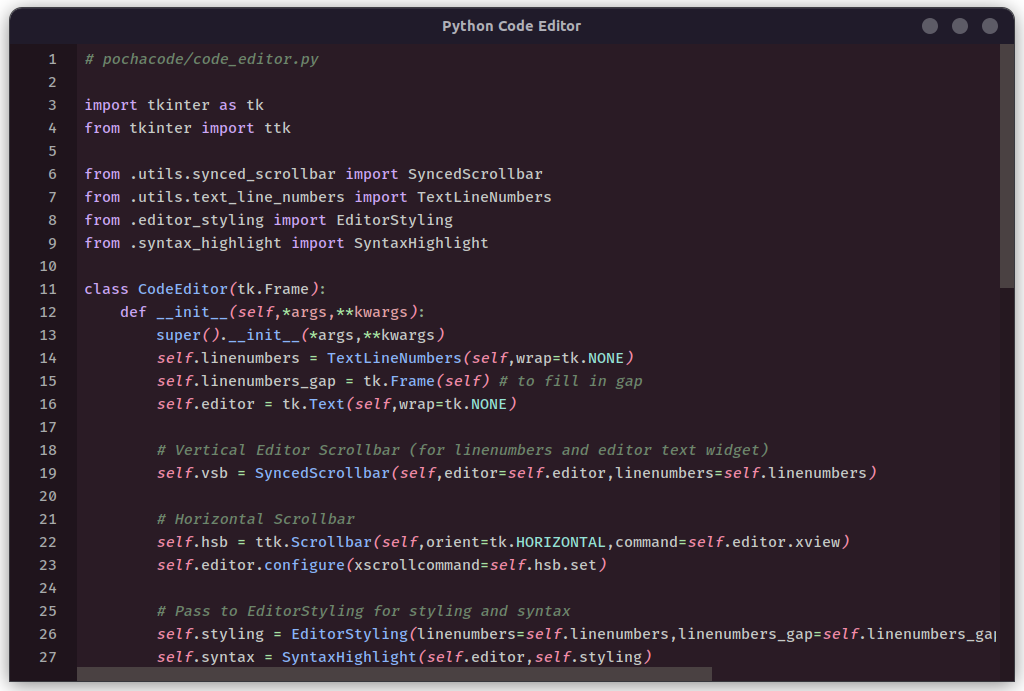
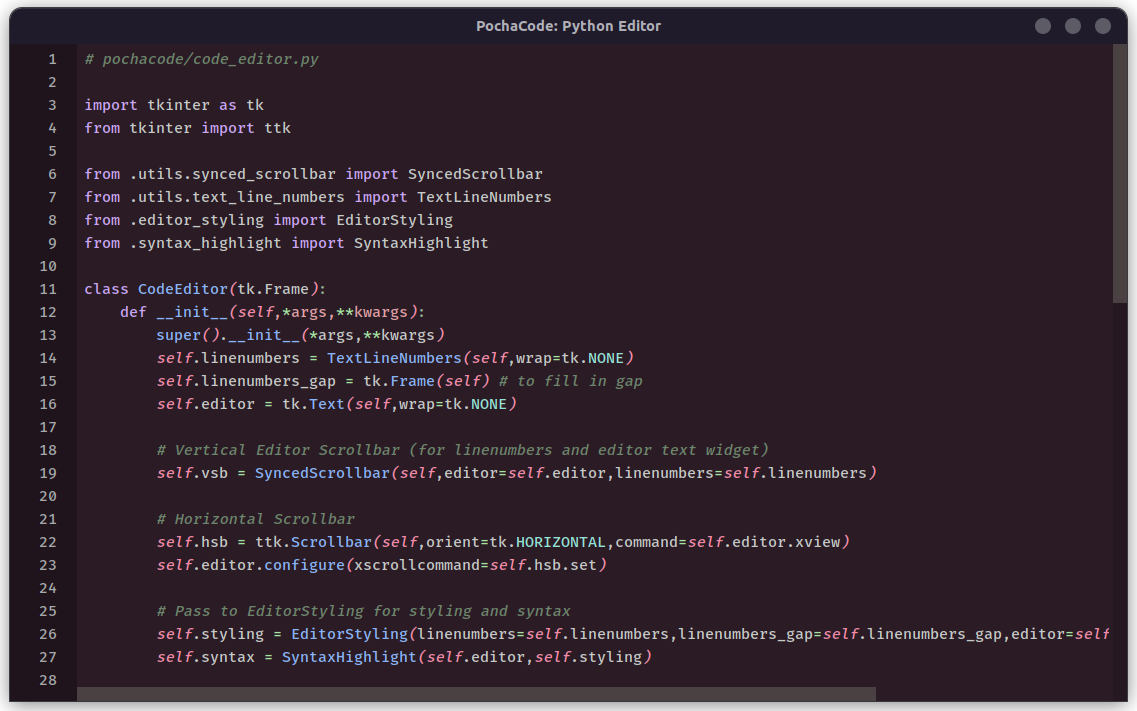
changed screenshot

diff --git a/pochacode/__main__.py b/pochacode/__main__.py
@@ -10,7 +10,7 @@ class MainApp:
         self.root = tk.Tk()
 
         # Main window configuration
-        self.root.title("Python Code Editor")
+        self.root.title("PochaCode: Python Editor")
         screen_width = self.root.winfo_screenwidth() 
         screen_height = self.root.winfo_screenheight()
         self.root.geometry(f'600x400+{screen_width//11}+{(screen_height//4)+10}')
